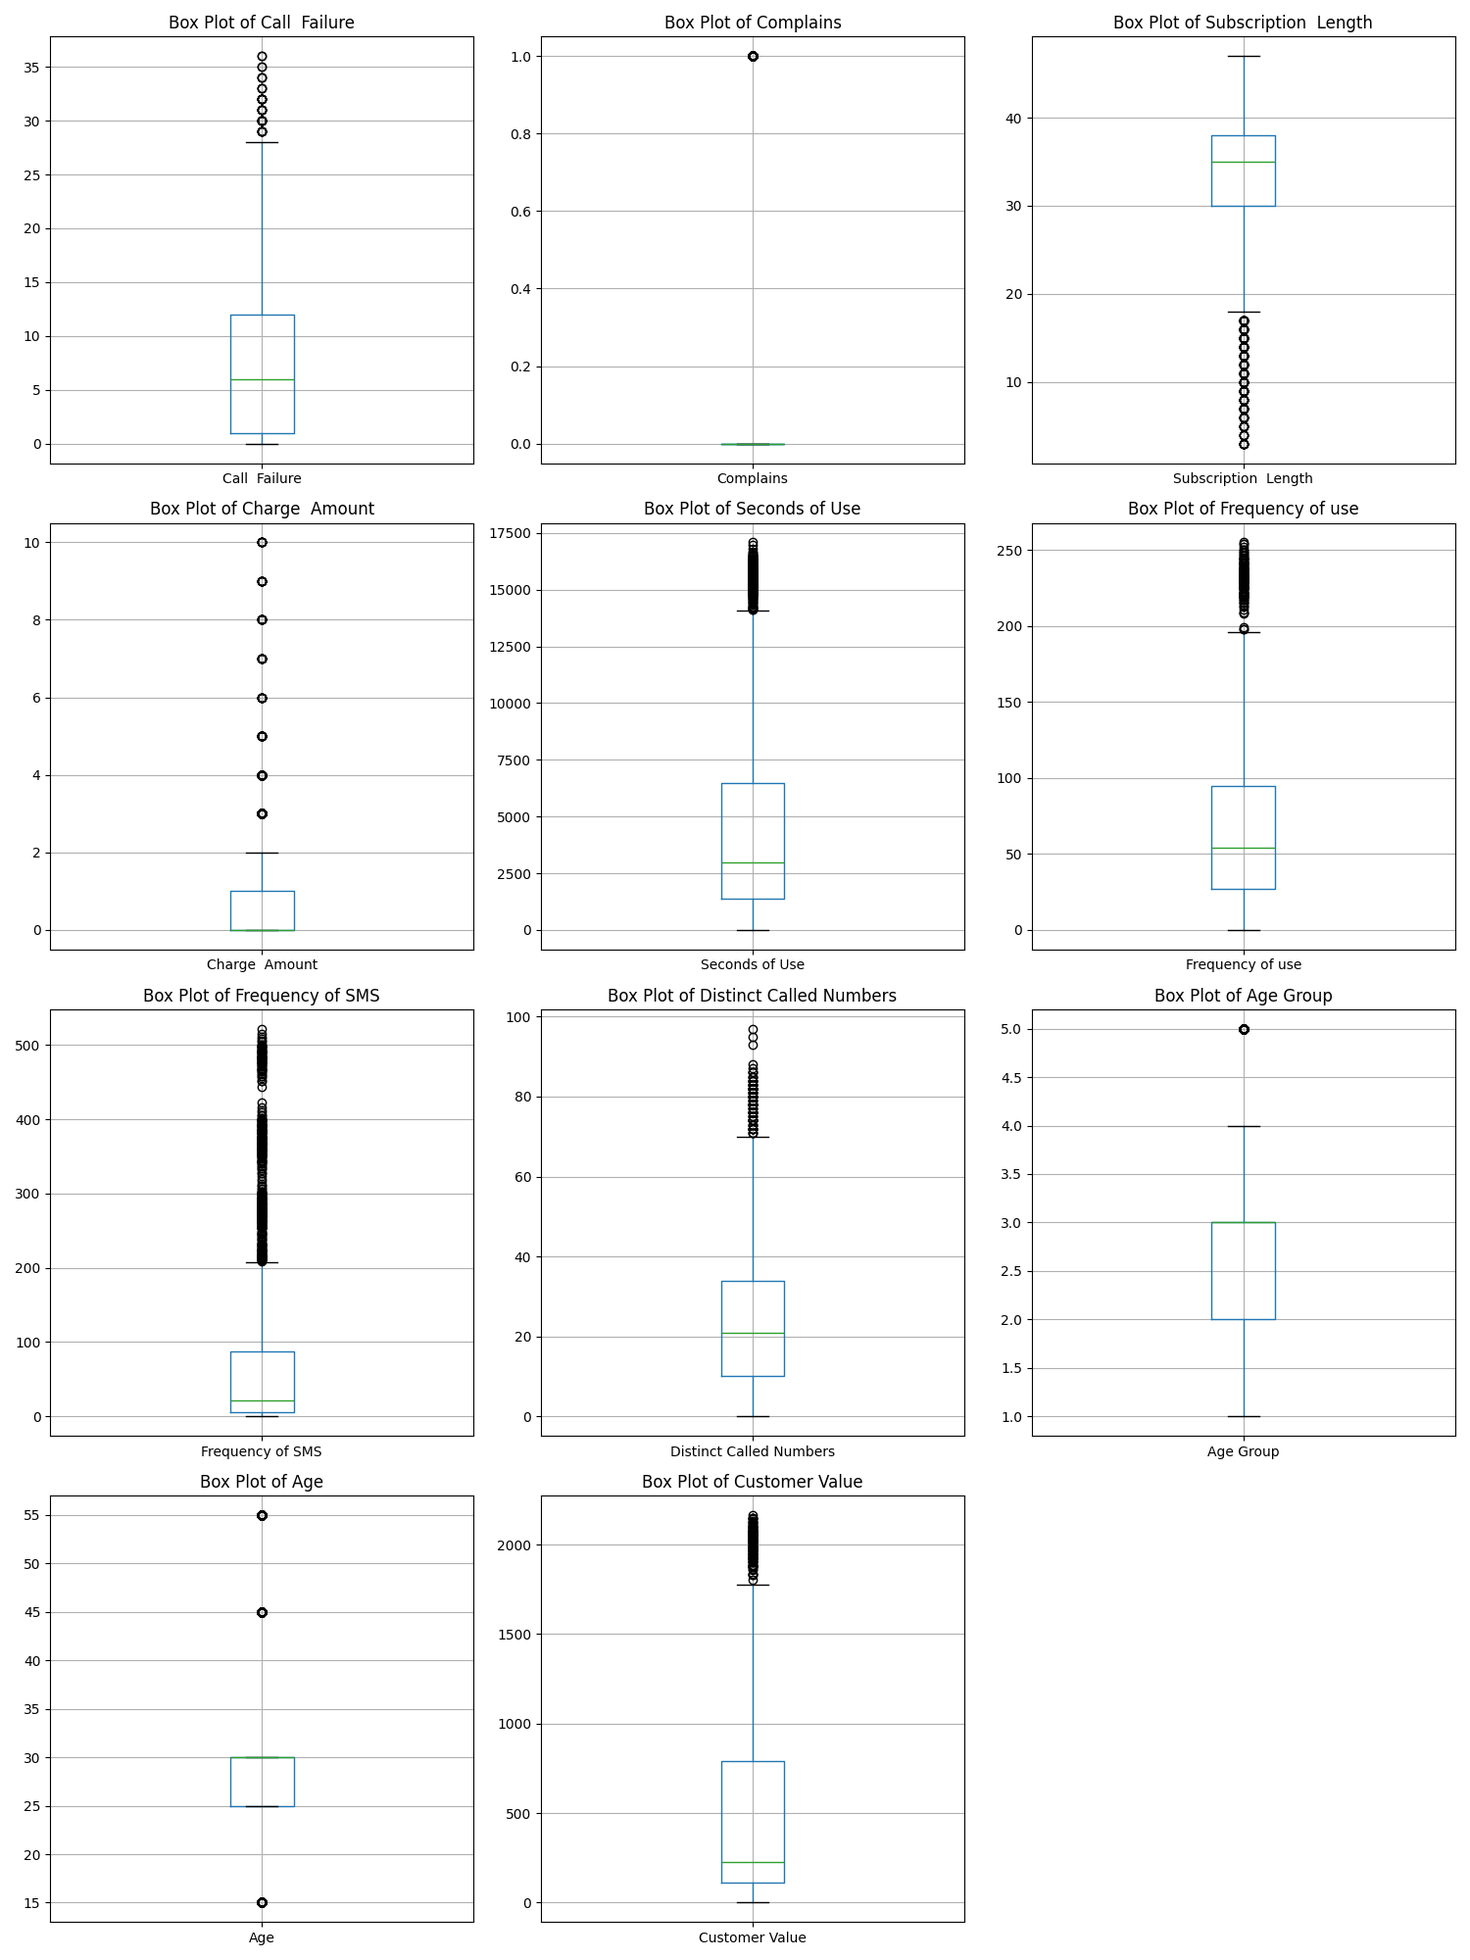
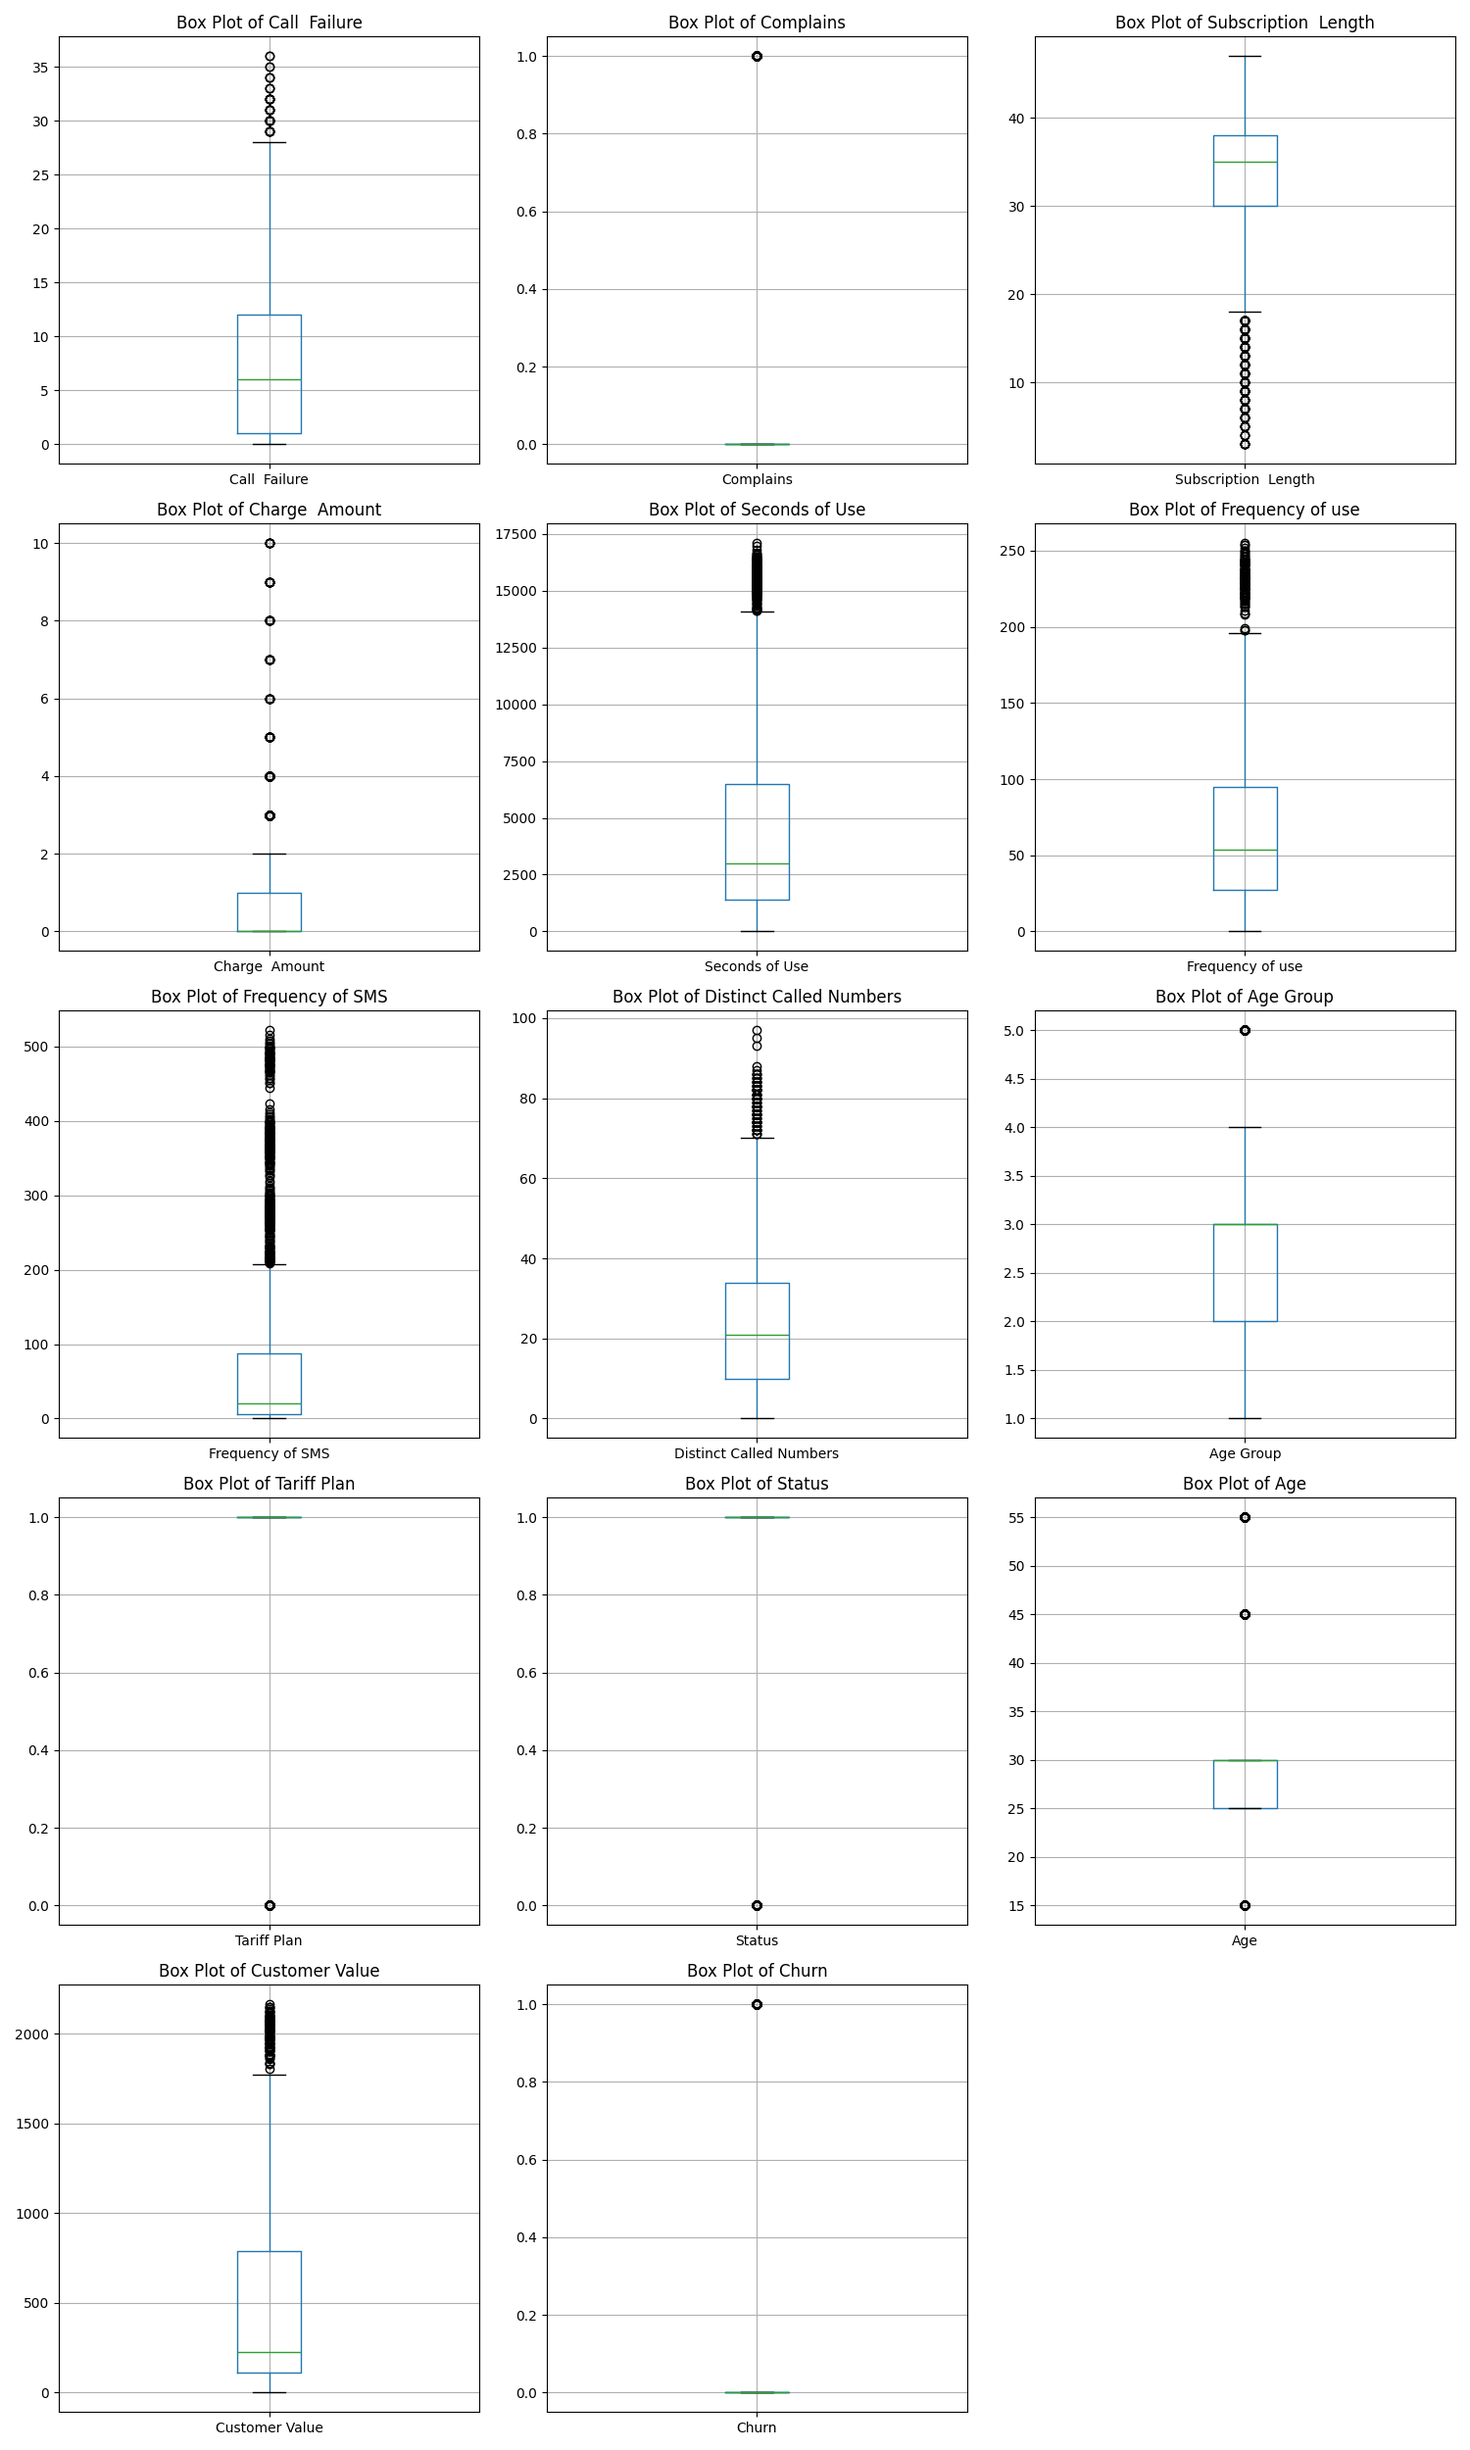
added box plots and histograms

diff --git a/get_statistics.py b/get_statistics.py
@@ -20,22 +20,26 @@ from read_and_preprocess_data import read_and_preprocess_data
 
 def generate_and_save_plots(df):
     """
-    Generates histograms and box plots for all numerical columns in the DataFrame.
+    Generates histograms and box plots for all numerical columns and histograms for binary columns in the DataFrame.
     Each type of plot is saved as a separate PNG file.
     """
-    # Filter for numeric columns in the DataFrame
-    numeric_cols = df.select_dtypes(include=['number']).columns
+    # Convert boolean columns to integers for histogram purposes
+    bool_cols = df.select_dtypes(include=['bool']).columns
+    for col in bool_cols:
+        df[col] = df[col].astype(int)  # Convert bool to int
 
-    # Determine the number of rows needed for subplots based on the number of numeric columns
-    # Arrange plots in a 3-column format for both types of plots
-    num_plots = len(numeric_cols)
-    nrows = (num_plots // 3) + (1 if num_plots % 3 else 0)
+    # Filter for numeric columns in the DataFrame (including converted boolean columns)
+    cols = df.select_dtypes(include=['number']).columns
 
-    # Create histograms
-    fig_hist, axs_hist = plt.subplots(nrows=nrows, ncols=3, figsize=(15, 5 * nrows))
+    # Determine the number of rows needed for subplots based on the number of columns
+    num_plots_hist = len(cols)
+    nrows_hist = (num_plots_hist // 3) + (1 if num_plots_hist % 3 else 0)
+
+    # Create histograms for all numeric (including converted boolean) columns
+    fig_hist, axs_hist = plt.subplots(nrows=nrows_hist, ncols=3, figsize=(15, 5 * nrows_hist))
     axs_hist = axs_hist.flatten()  # Flatten to 1D array for easy iteration
 
-    for i, col in enumerate(numeric_cols):
+    for i, col in enumerate(cols):
         df[col].hist(ax=axs_hist[i], bins=20)
         axs_hist[i].set_title(f'Histogram of {col}')
         axs_hist[i].set_xlabel('Value')
@@ -47,14 +51,17 @@ def generate_and_save_plots(df):
 
     plt.tight_layout()
     plt.savefig('histograms.png')
-    plt.close(fig_hist)  # Close the histogram plotting window
+    plt.close(fig_hist)
     print("Histograms saved to 'histograms.png'.")
 
-    # Create box plots
-    fig_box, axs_box = plt.subplots(nrows=nrows, ncols=3, figsize=(15, 5 * nrows))
+    # Create box plots for all numeric columns
+    num_plots_box = len(cols)
+    nrows_box = (num_plots_box // 3) + (1 if num_plots_box % 3 else 0)
+
+    fig_box, axs_box = plt.subplots(nrows=nrows_box, ncols=3, figsize=(15, 5 * nrows_box))
     axs_box = axs_box.flatten()  # Flatten to 1D array for easy iteration
 
-    for i, col in enumerate(numeric_cols):
+    for i, col in enumerate(cols):
         df.boxplot(column=[col], ax=axs_box[i])
         axs_box[i].set_title(f'Box Plot of {col}')
 
@@ -64,19 +71,15 @@ def generate_and_save_plots(df):
 
     plt.tight_layout()
     plt.savefig('box_plots.png')
-    plt.close(fig_box)  # Close the box plot plotting window
+    plt.close(fig_box)
     print("Box plots saved to 'box_plots.png'.")
 
+
 # Example usage
 if __name__ == "__main__":
-    data, _, __ = read_and_preprocess_data()  # Load your data
+    data, _, __ = read_and_preprocess_data()  # Load data
+    print(data.dtypes)
     generate_and_save_plots(data)  # Generate and save plots
-
-
-# Example usage
-if __name__ == "__main__":
-    data, _, __ = read_and_preprocess_data()  # Load your data
-    generate_and_save_plots(data)  # Generate and save histograms
 
 
 
